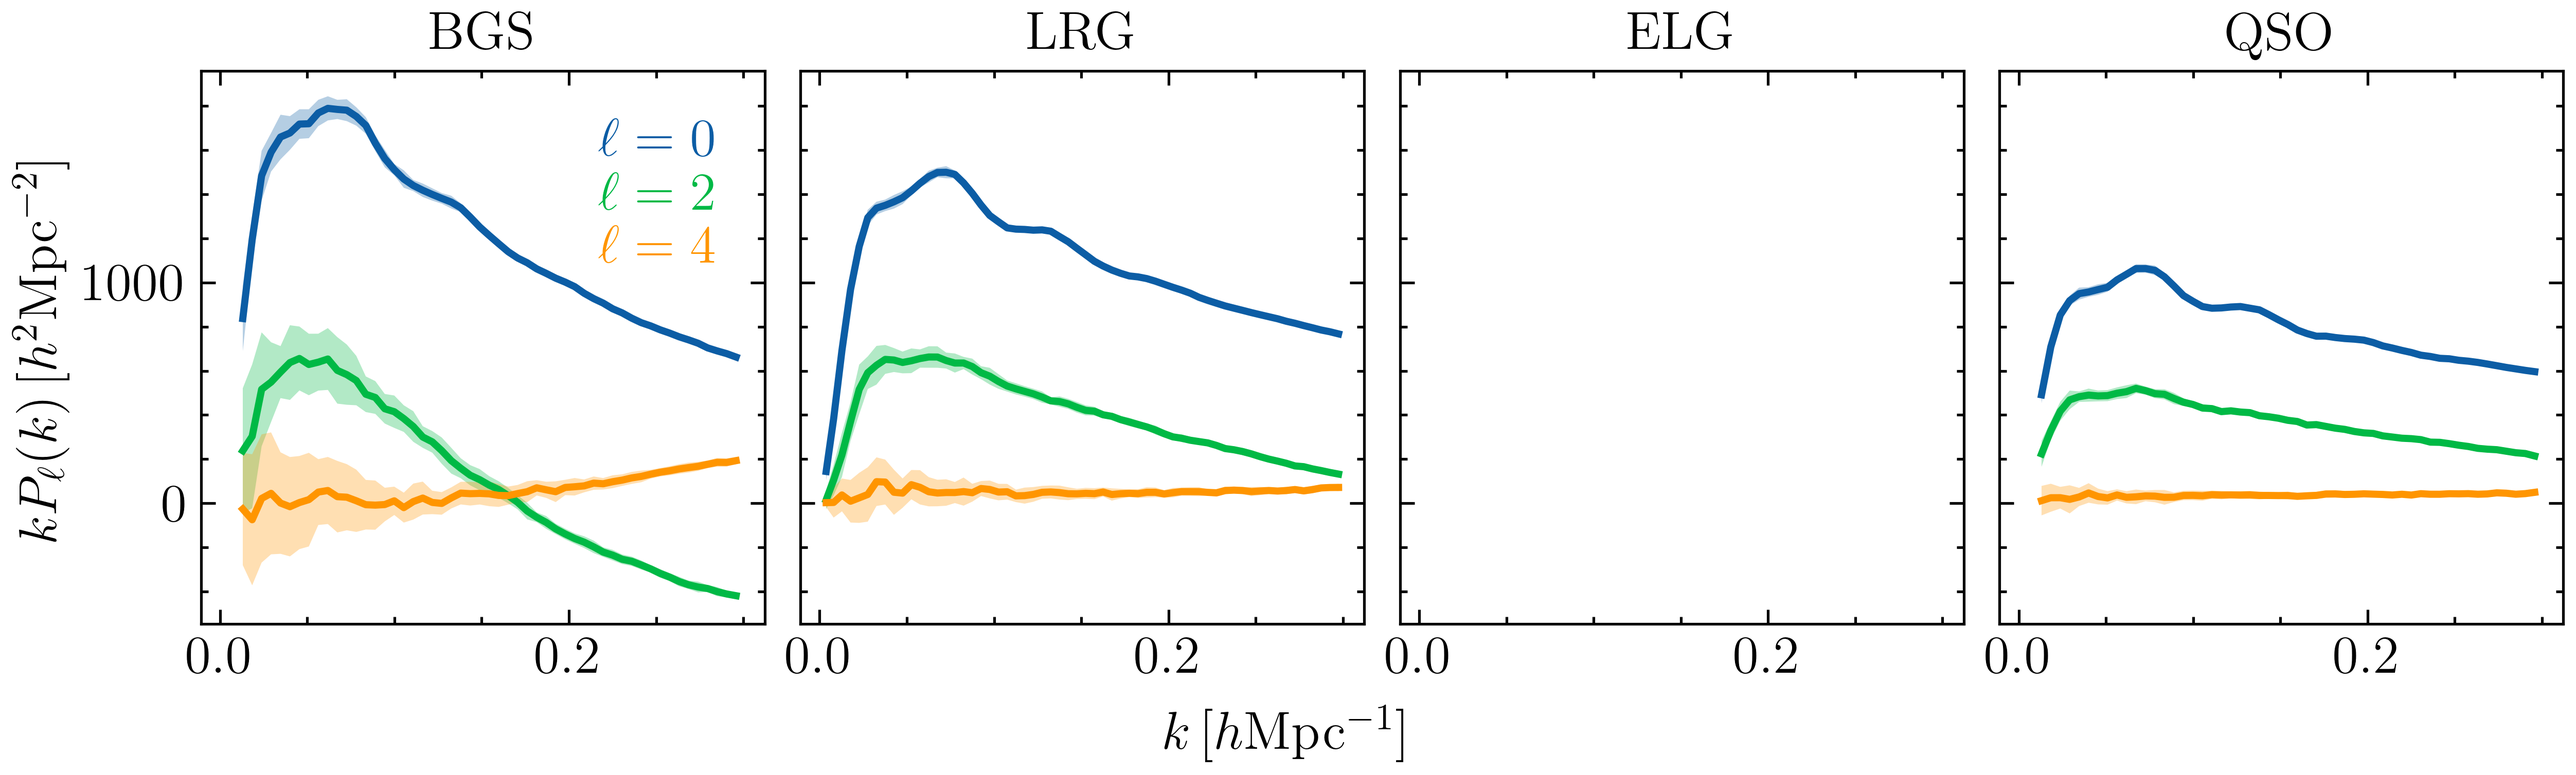
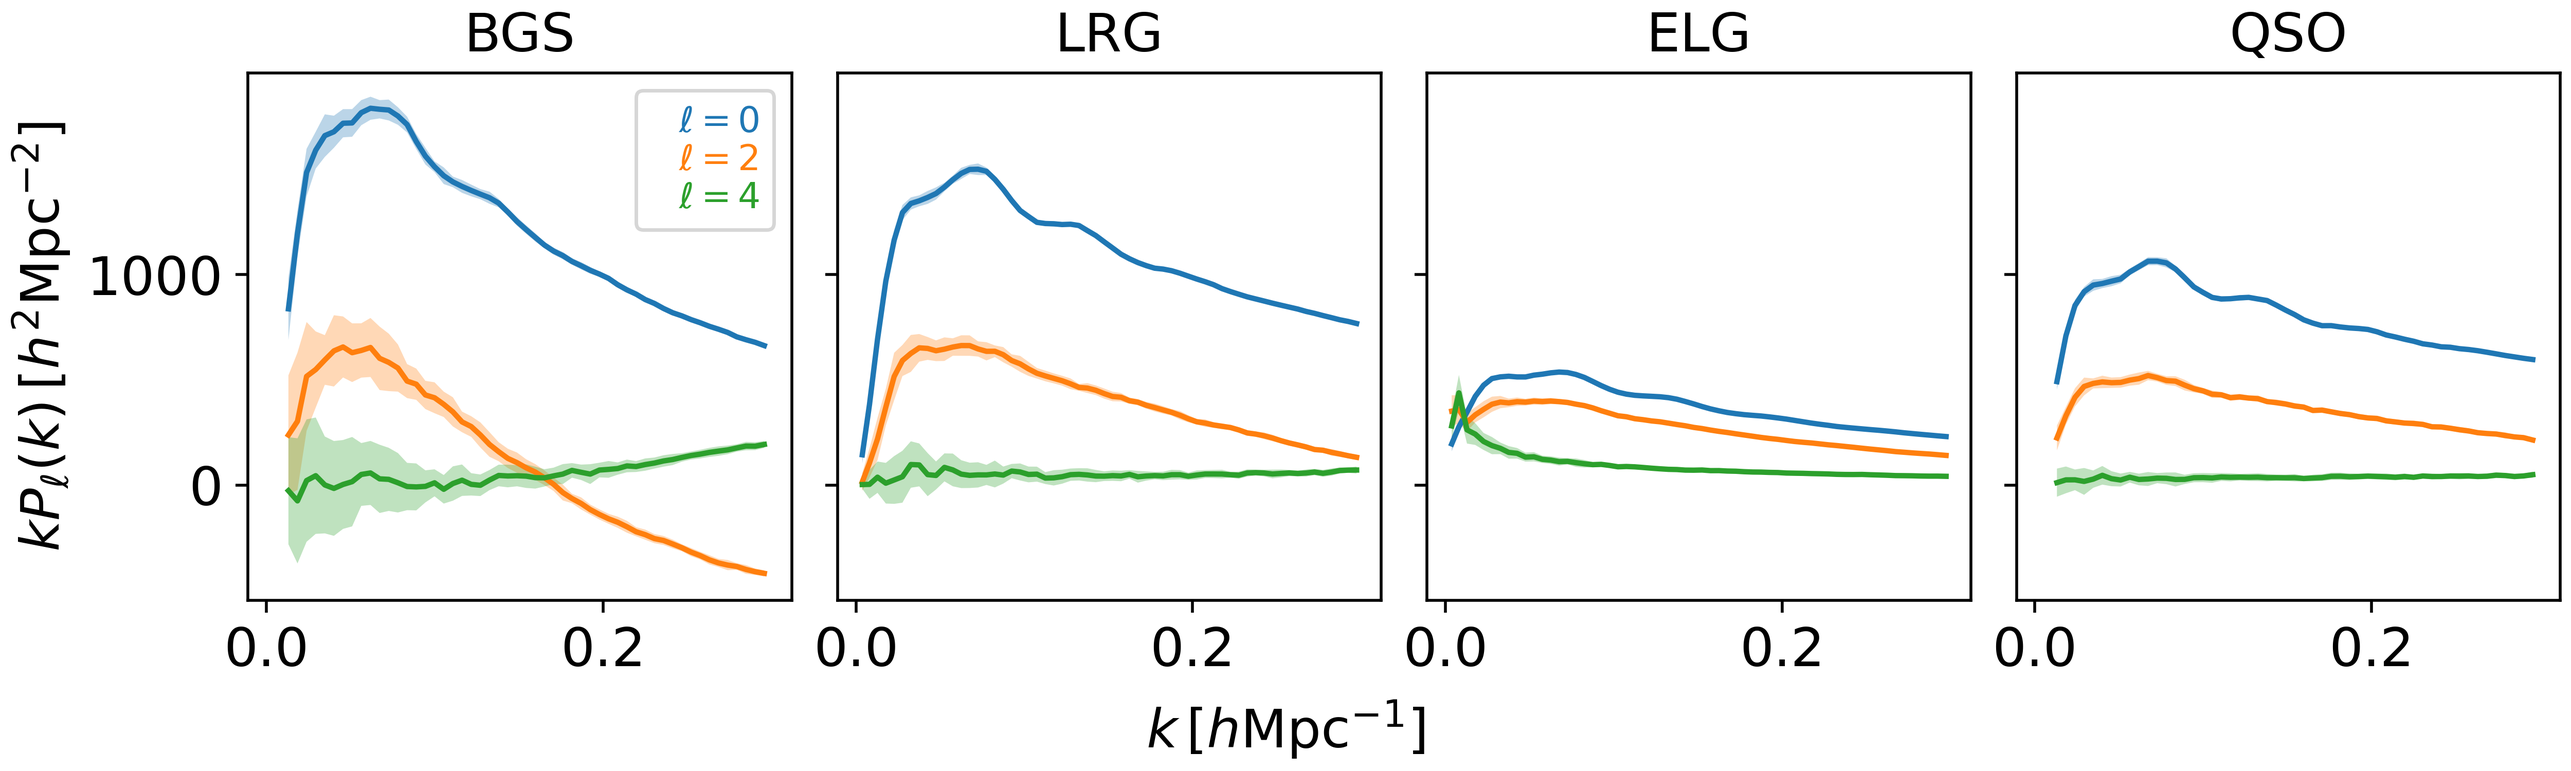
add ELG Pk

Changed region(s): [[0.0, 0.0, 0.9984, 0.8893], [0.4368, 0.92, 0.5616, 0.9813], [0.0, 0.1533, 0.0312, 0.2453]]

diff --git a/paper/desi_tracers_multipoles.py b/paper/desi_tracers_multipoles.py
@@ -38,6 +38,23 @@ multipoles_phases = np.asarray(multipoles_phases)
 multipoles_lrg = multipoles_phases.mean(axis=0)
 err_lrg = multipoles_phases.std(axis=0)
 
+# ELG
+multipoles_phases = []
+for phase in range(25):
+    data_dir = Path('/global/cfs/cdirs/desi/cosmosim/KP45/MC/Clustering/AbacusSummit/CutSky/ELG/Xinyi/cellsize4/ELG_metrics/Pk/pknmesh1024/NGC')
+    data_fn = data_dir / f'cutsky_ELG_NGC_1.1z1.6_ph{phase:03}.randoms20X.pre_recon_redshiftspace_pad1.5_Pk_nmesh1024.npy'
+    result = CatalogFFTPower.load(data_fn)
+    poles = result.poles
+    poles.select((0, 0.3))
+    k_elg = poles.k
+    Pk_0 = poles(ell=0, complex=False)
+    Pk_2 = poles(ell=2, complex=False)
+    Pk_4 = poles(ell=4, complex=False)
+    multipoles_phases.append([Pk_0, Pk_2, Pk_4])
+multipoles_phases = np.asarray(multipoles_phases)
+multipoles_elg = multipoles_phases.mean(axis=0)
+err_elg = multipoles_phases.std(axis=0)
+
 # QSO
 multipoles_phases = []
 for phase in range(25):
@@ -71,6 +88,13 @@ ax[1].plot(k_lrg, k_lrg*multipoles_lrg[2], label='$\ell = 4$')
 ax[1].fill_between(k_lrg, k_lrg*(multipoles_lrg[0] - err_lrg[0]), k_lrg*(multipoles_lrg[0] + err_lrg[0]), alpha=0.3)
 ax[1].fill_between(k_lrg, k_lrg*(multipoles_lrg[1] - err_lrg[1]), k_lrg*(multipoles_lrg[1] + err_lrg[1]), alpha=0.3)
 ax[1].fill_between(k_lrg, k_lrg*(multipoles_lrg[2] - err_lrg[2]), k_lrg*(multipoles_lrg[2] + err_lrg[2]), alpha=0.3)
+
+ax[2].plot(k_elg, k_elg*multipoles_elg[0], label='$\ell = 0$')
+ax[2].plot(k_elg, k_elg*multipoles_elg[1], label='$\ell = 2$')
+ax[2].plot(k_elg, k_elg*multipoles_elg[2], label='$\ell = 4$')
+ax[2].fill_between(k_elg, k_elg*(multipoles_elg[0] - err_elg[0]), k_lrg*(multipoles_elg[0] + err_elg[0]), alpha=0.3)
+ax[2].fill_between(k_elg, k_elg*(multipoles_elg[1] - err_elg[1]), k_lrg*(multipoles_elg[1] + err_elg[1]), alpha=0.3)
+ax[2].fill_between(k_elg, k_elg*(multipoles_elg[2] - err_elg[2]), k_lrg*(multipoles_elg[2] + err_elg[2]), alpha=0.3)
 
 ax[3].plot(k_qso, k_qso*multipoles_qso[0], label='$\ell = 0$')
 ax[3].plot(k_qso, k_qso*multipoles_qso[1], label='$\ell = 2$')
